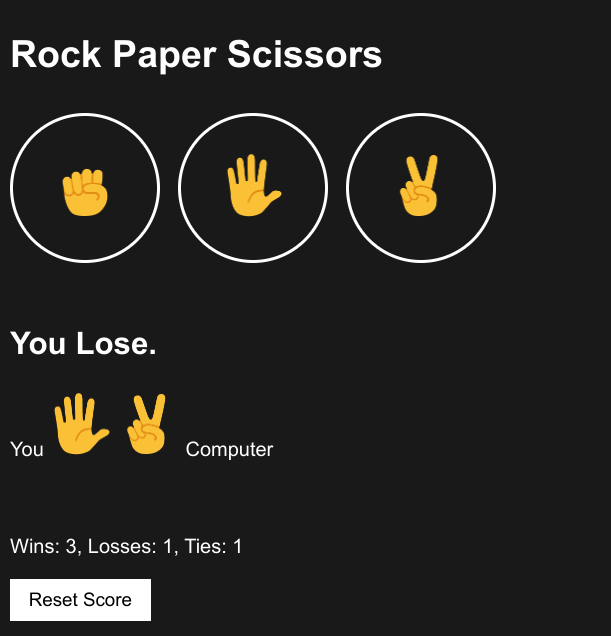
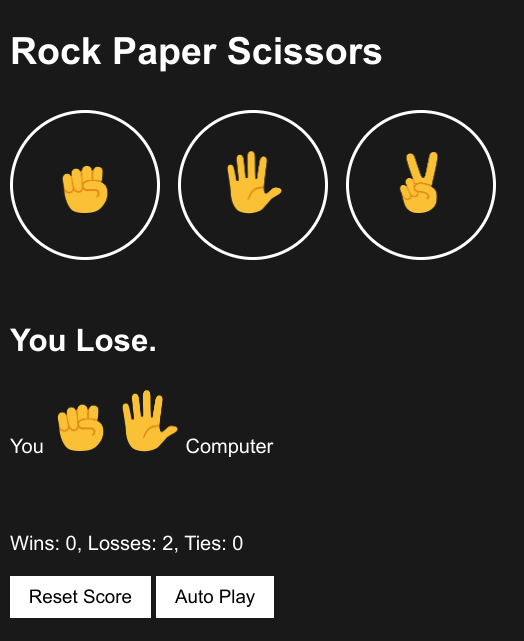
added auto play button

diff --git a/rock_paper_scissors.js b/rock_paper_scissors.js
@@ -6,6 +6,22 @@ let score = JSON.parse(localStorage.getItem("score")) || {
 
 updateScoreElement();
 
+var isAutoPlaying = false;
+var intervalId;
+
+function autoPlay() {
+  if (!isAutoPlaying) {
+    intervalId = setInterval(function () {
+      const playerMove = pickComputerMove();
+      playGame(playerMove);
+    }, 1000);
+    isAutoPlaying = true;
+  } else {
+    clearInterval(intervalId);
+    isAutoPlaying = false;
+  }
+}
+
 function playGame(playerMove) {
   const computerMove = pickComputerMove();
 

diff --git a/style.css b/style.css
@@ -29,7 +29,8 @@ body {
 .score {
   margin-top: 60px;
 }
-.reset-score-button {
+.reset-score-button,
+.auto-play-button {
   background-color: white;
   border: none;
   font-size: 15px;

diff --git a/rock_paper_scissors.html b/rock_paper_scissors.html
@@ -49,5 +49,6 @@
     >
       Reset Score
     </button>
+    <button class="auto-play-button" onclick="autoPlay();">Auto Play</button>
   </body>
 </html>
